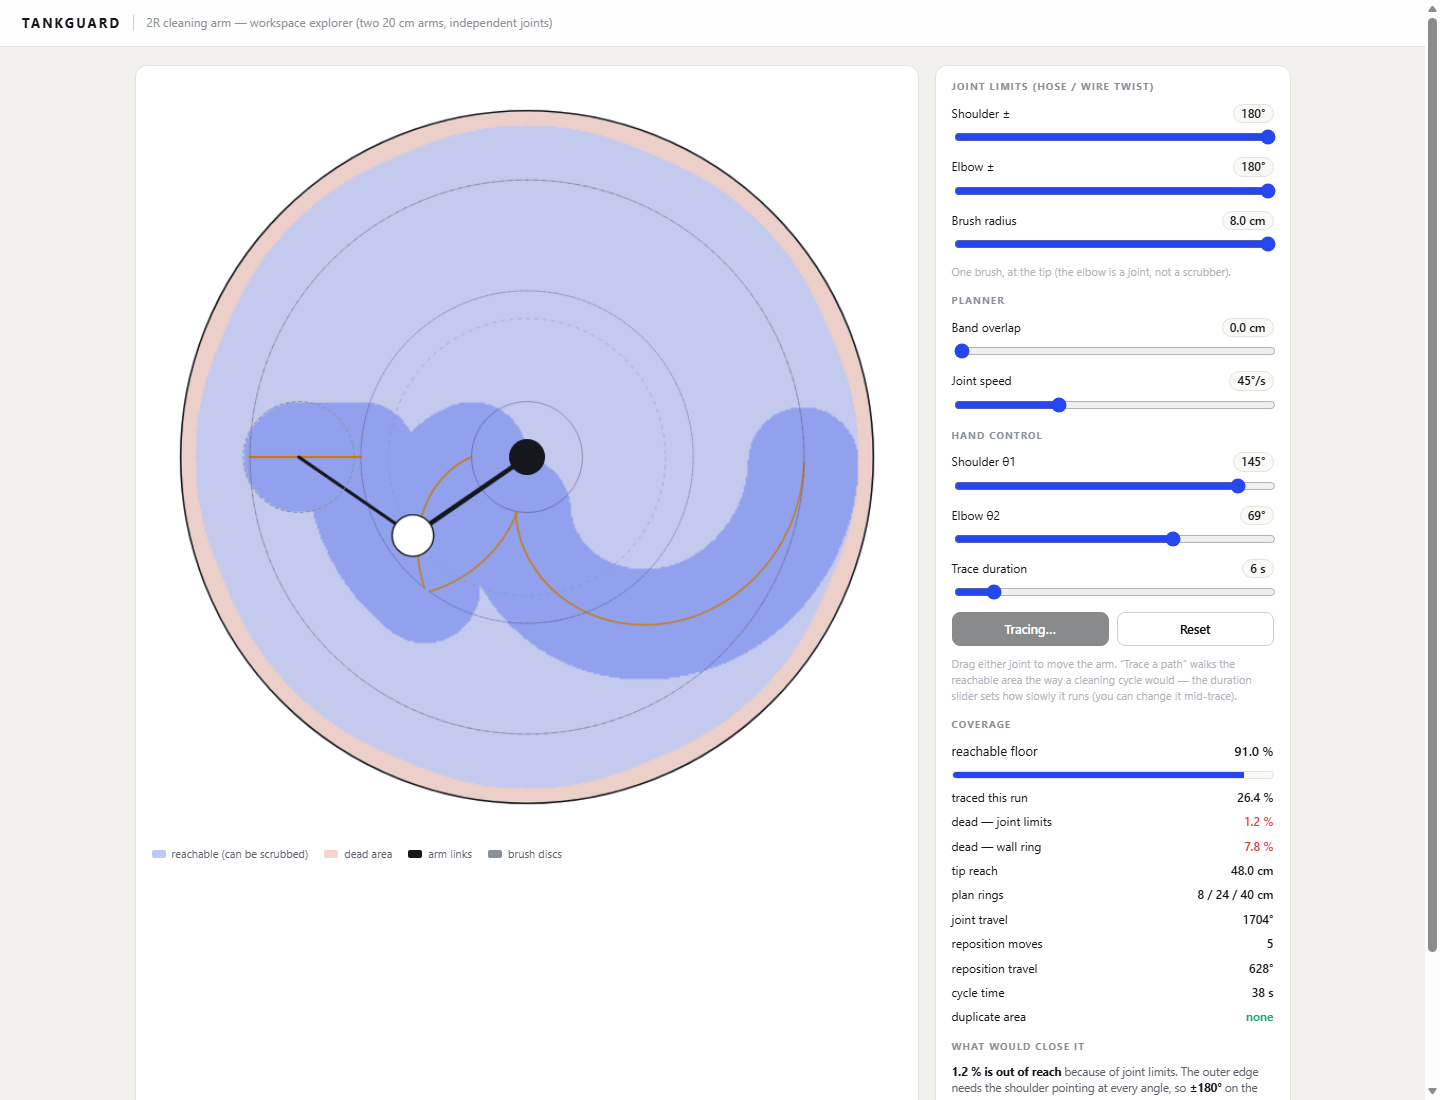
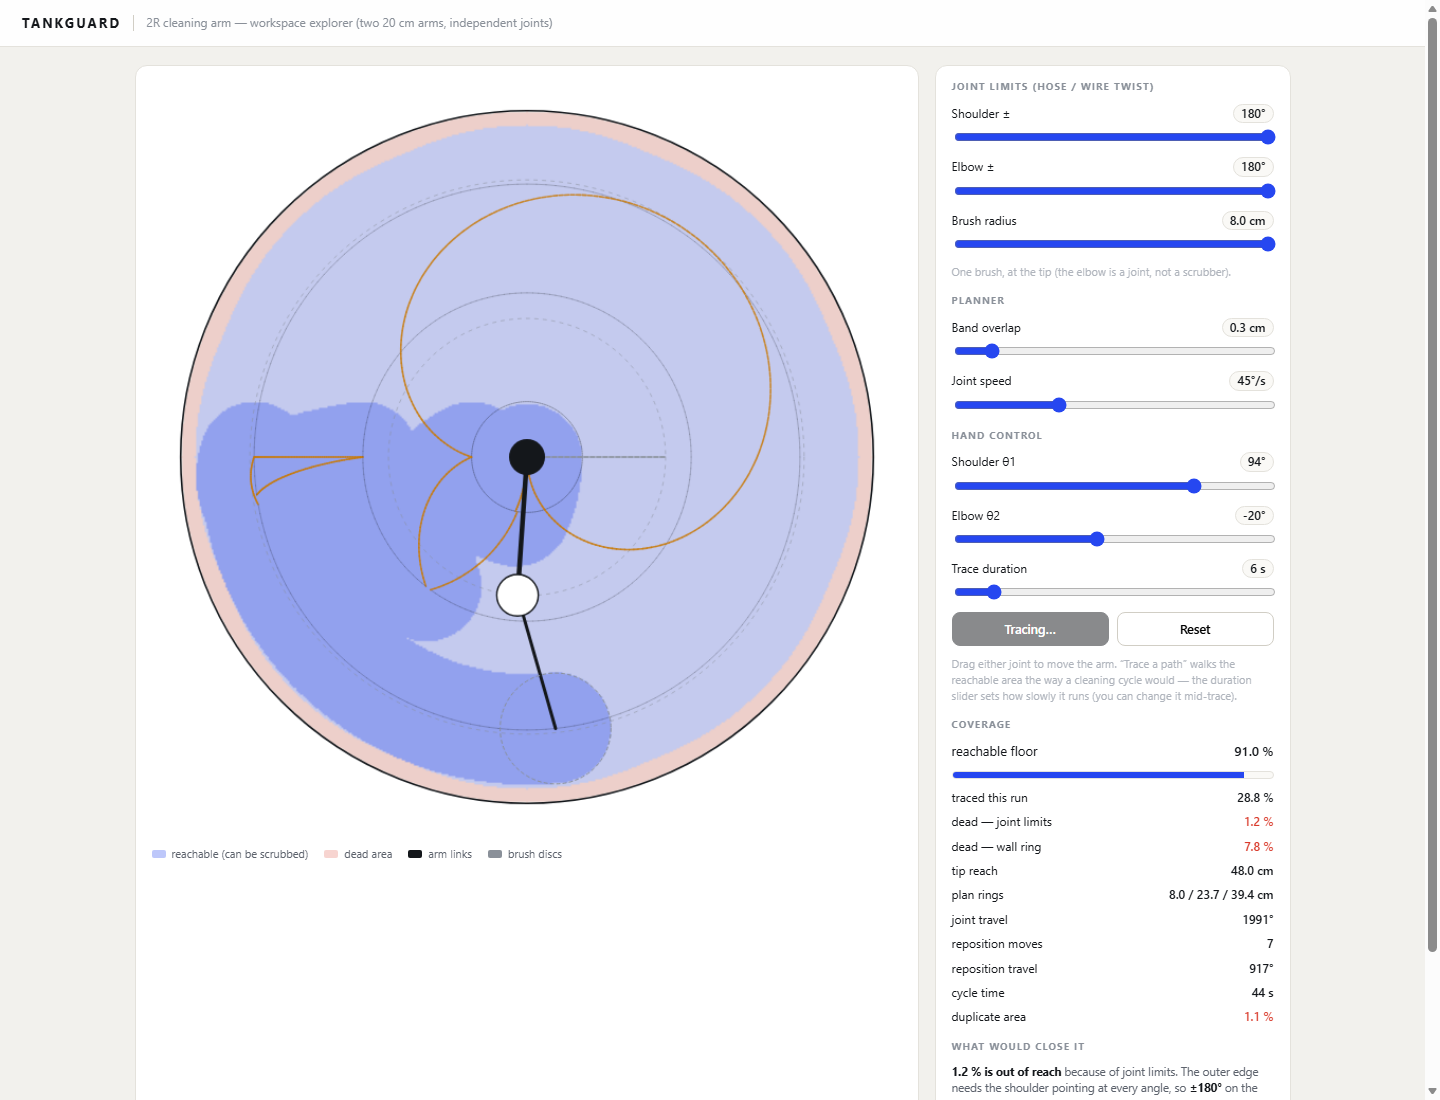
feat(tools): park pose start/end, 0.3 cm overlap ladder, cycle-priced ordering

diff --git a/tools/swept_area.html b/tools/swept_area.html
@@ -92,8 +92,8 @@
     <div class="group">
       <span class="group-title">Planner</span>
       <label class="ctl">
-        <span class="ctl-head">Band overlap <output id="o-margin">0.0 cm</output></span>
-        <input id="i-margin" type="range" min="0" max="3" step="0.25" value="0">
+        <span class="ctl-head">Band overlap <output id="o-margin">0.3 cm</output></span>
+        <input id="i-margin" type="range" min="0" max="3" step="0.1" value="0.3">
       </label>
       <label class="ctl">
         <span class="ctl-head">Joint speed <output id="o-jointspeed">45°/s</output></span>
@@ -163,7 +163,7 @@ const px = (cm) => (cm + LIM) * scale;
 const deg = (r) => (r * 180) / Math.PI;
 const rad = (d) => (d * Math.PI) / 180;
 
-const state = { l1: 180, l2: 180, brush: 8, t1: 0, t2: 0, traced: 0, running: false, traceDur: 12, margin: 0, jointSpeed: 45, planPath: [] };
+const state = { l1: 180, l2: 180, brush: 8, t1: 0, t2: 0, traced: 0, running: false, traceDur: 12, margin: 0.3, jointSpeed: 45, planPath: [] };
 
 const inTank = new Uint8Array(N * N);
 const tipOk = new Uint8Array(N * N);
@@ -321,6 +321,20 @@ function draw() {
     ctx.restore();
   }
 
+  // ghost of the rest pose, so the park position is part of the picture
+  const hp = parkPose();
+  const ha1 = rad(hp.t1), ha2 = rad(hp.t1 + hp.t2);
+  ctx.save();
+  ctx.setLineDash([2, 4]);
+  ctx.strokeStyle = "rgba(138,144,153,.8)";
+  ctx.lineWidth = 2;
+  ctx.beginPath();
+  ctx.moveTo(px(0), px(0));
+  ctx.lineTo(px(L1 * Math.cos(ha1)), px(L1 * Math.sin(ha1)));
+  ctx.lineTo(px(L1 * Math.cos(ha1) + L2 * Math.cos(ha2)), px(L1 * Math.sin(ha1) + L2 * Math.sin(ha2)));
+  ctx.stroke();
+  ctx.restore();
+
   const p = tipPosition();
   ctx.lineCap = "round"; ctx.strokeStyle = "#14171b";
   ctx.lineWidth = 4.5;
@@ -468,10 +482,14 @@ document.getElementById("reset").addEventListener("click", () => {
 -------------------------------------------------------------------------- */
 
 function planRings(b, margin) {
-  const span = L1 + L2 - b; // from the first ring to full extension
-  const n = Math.max(2, Math.ceil(span / (2 * b - margin)) + 1);
+  const step = Math.max(0.5, 2 * b - margin); // band width minus the requested overlap
   const rings = [];
-  for (let k = 0; k < n; k++) rings.push(b + (span * k) / (n - 1));
+  for (let r = b; r <= L1 + L2 + 1e-6; r += step) rings.push(r);
+  // If the ladder falls short of full extension by less than half a step, stop
+  // there: adding one more ring would stack a huge overlap on the wall band.
+  const last = rings[rings.length - 1];
+  const shortfall = L1 + L2 - last;
+  if (shortfall > 1e-6 && shortfall >= step * 0.5) rings.push(L1 + L2);
   return rings;
 }
 
@@ -579,7 +597,15 @@ function orderArcs(arcs, startPose) {
 
   const full = size - 1;
   let best = INF, bi = 0, bo = 0;
-  for (let i = 0; i < n; i++) for (let o = 0; o < 2; o++) if (dp[full][i][o] < best) { best = dp[full][i][o]; bi = i; bo = o; }
+  for (let i = 0; i < n; i++) {
+    for (let o = 0; o < 2; o++) {
+      if (!isFinite(dp[full][i][o])) continue;
+      const end = o ? arcs[i][0] : arcs[i][arcs[i].length - 1];
+      // the cycle must return to the rest pose, so price that leg in
+      const total = dp[full][i][o] + d(end, startPose);
+      if (total < best) { best = total; bi = i; bo = o; }
+    }
+  }
 
   const seq = [];
   let mask = full, i = bi, o = bo;
@@ -593,19 +619,27 @@ function orderArcs(arcs, startPose) {
   return seq.map(({ i, o }) => (o ? arcs[i].slice().reverse() : arcs[i]));
 }
 
+/* Rest pose: both links folded back on themselves, tip at the centre. That is
+   the most compact form the arm can take (occupies one 20 cm radius line), the
+   least loaded on both joints, and it never parks against the wall. */
+function parkPose() {
+  return { t1: 0, t2: Math.min(180, state.l2) };
+}
+
 function buildPlan() {
   const rings = planRings(state.brush, state.margin);
   const perRing = rings.map((r) => ringArcs(r));
   const arcs = perRing.flat();
 
-  const ordered = orderArcs(arcs, { t1: state.t1, t2: state.t2 });
+  const park = parkPose();
+  const ordered = orderArcs(arcs, park);
 
   // ---- full path: arcs plus interpolated reconfiguration moves ----------
   const path = [];
   let cleanTravel = 0;
   let moveTravel = 0;
   let moves = 0;
-  let prevPose = { t1: state.t1, t2: state.t2 };
+  let prevPose = { t1: park.t1, t2: park.t2 };
 
   const interp = (from, to) => {
     const d1 = to.t1 - from.t1;
@@ -634,6 +668,14 @@ function buildPlan() {
       path.push({ t1: p.t1, t2: p.t2, move: false });
     }
     prevPose = arc[arc.length - 1];
+  }
+
+  // return to the rest pose so every cycle starts and ends parked
+  const backGap = Math.abs(park.t1 - prevPose.t1) + Math.abs(park.t2 - prevPose.t2);
+  if (backGap > 0.5) {
+    path.push(...interp(prevPose, park));
+    moveTravel += backGap;
+    moves++;
   }
 
   const travel = cleanTravel + moveTravel;
@@ -670,6 +712,15 @@ document.getElementById("run").addEventListener("click", () => {
   if (!poses.length) return;
   publishPlan(plan);
 
+  // every cycle starts from rest
+  const home = parkPose();
+  state.t1 = home.t1;
+  state.t2 = home.t2;
+  t1El.value = String(state.t1);
+  t2El.value = String(state.t2);
+  document.getElementById("o-t1").textContent = state.t1.toFixed(0) + "°";
+  document.getElementById("o-t2").textContent = state.t2.toFixed(0) + "°";
+
   state.running = true;
   const btn = document.getElementById("run");
   btn.disabled = true; btn.textContent = "Tracing…";
@@ -680,7 +731,7 @@ document.getElementById("run").addEventListener("click", () => {
     return { x: L1 * Math.cos(a1) + L2 * Math.cos(a2), y: L1 * Math.sin(a1) + L2 * Math.sin(a2), move: !!p.move };
   });
 
-  document.getElementById("o-rings").textContent = plan.rings.map((r) => r.toFixed(0)).join(" / ") + " cm";
+  document.getElementById("o-rings").textContent = plan.rings.map((r) => r.toFixed(1)).join(" / ") + " cm";
   document.getElementById("o-travel").textContent = plan.travel.toFixed(0) + "°";
   document.getElementById("o-time").textContent = (plan.travel / state.jointSpeed).toFixed(0) + " s";
   document.getElementById("o-moves").textContent = String(plan.moves);

diff --git a/docs/CLEANER.md b/docs/CLEANER.md
@@ -252,51 +252,57 @@ it can, so the model is consistent.
 
 Screenshot: [`workspace-2r.png`](workspace-2r.png)
 
-### Coverage planner — minimal passes, zero duplication
+### Coverage planner — minimal passes, no wasted floor
 
-The brush is a disc of radius *b*, so one full circular pass at radius *r*
-scrubs the annulus **[r − b, r + b] exactly**. Tiling the reachable disc with
-concentric passes spaced **2b** therefore covers everything with **no overlap**:
-it is the minimum number of passes, and any tighter spacing re-cleans floor.
+The brush is a disc of radius *b*, so one full circular pass at radius *r* scrubs
+the annulus **[r − b, r + b] exactly**. Tiling the reachable disc with
+concentric passes spaced **2b − overlap** covers everything with only the
+overlap you ask for — the minimum number of passes, and no other duplication.
 
-With **b = 8 cm** the whole floor is three rings:
+**Final configuration: b = 8 cm, 0.3 cm band overlap, single tip brush, both
+joints ±180°, cycle starts and ends parked.**
 
 | ring | band scrubbed | note |
 |---|---|---|
-| r = 8 cm | 0 – 16 cm | tip folded (elbow ≈ ±157°) |
-| r = 24 cm | 16 – 32 cm | elbow ≈ ±106° |
-| r = 40 cm | 32 – 48 cm | fully extended (elbow 0°) |
-
-Planner output (both joints ±180°, elbow brush off):
+| r = 8.0 cm | 0 – 16 cm | tip folded (elbow ≈ ±157°) |
+| r = 23.7 cm | 15.7 – 31.7 cm | elbow ≈ ±106° |
+| r = 39.4 cm | 31.4 – 47.4 cm | nearly extended (elbow ≈ ±20°) |
 
 | metric | value |
 |---|---|
-| coverage | **91.0 %** of the floor (the rest is the 2 cm ring + 1.2 % centre) |
-| duplicate area | **0 %** |
-| arcs | 5 (inner and middle rings split once by the elbow branch flip; outer ring 1) |
-| joint travel | **1,704°** — 1,076° scrubbing + **628° repositioning** |
-| cycle time | **38 s** at 45 °/s joint speed |
+| coverage | **90.0 %** of the floor |
+| duplicate area | **1.13 %** — exactly the 0.3 cm overlap, nothing else |
+| arcs | 6 — each ring splits once at its elbow branch flip |
+| reposition moves | 7 — park → ring 1, five ring/branch transitions, ring 3 → park |
+| joint travel | **1,991°** — 1,074° scrubbing + **917° repositioning** |
+| cycle time | **44 s** at 45 °/s joint speed |
 
-Two findings the planner makes obvious:
+**Park pose.** Every cycle starts and ends in the same rest form: both links
+folded back on themselves, θ1 = 0°, θ2 = ±180°, tip at the tank centre. That is
+the most compact shape the arm can take (one 20 cm line), loads both joints the
+least, and never rests against the wall. The tool draws it as a ghost so the
+resting position is part of the picture, and the planner prices the two park legs
+into the ordering — it solves for a *cycle*, not an open path.
 
-1. **The tip brush alone closes the tiling.** Rings at 8 / 24 / 40 scrub
-   0–48 cm with no gaps and no overlap — a second brush at the elbow would
-   scrub 12–28 cm again (25.6 % of the floor twice) for nothing. One brush is
-   both simpler and faster.
-2. **Overlap margin is expensive.** A 2 cm margin pushes the plan to four rings
-   (8 / 19 / 29 / 40 cm), +6 % joint travel and **10.2 % duplicate area** — for
-   no coverage gain. Keep the margin at 0 and rely on the brush's compliance.
+**Why 0.3 cm costs 2.4 points of floor.** The rings must fit inside the 40 cm
+reach, so a tighter ladder trades wall band for overlap: at 0.3 cm the outermost
+ring sits at 39.4 and the wall ring grows from 2.0 to 2.6 cm. Forcing a fourth
+ring to hold the wall at 40 would stack 5.3 cm of overlap on every boundary and
+duplicate **20 %** of the floor. Three rings at 15.7 cm is the right call.
 
-The planner also splits each ring into arcs wherever a joint limit or an elbow
-branch flip forces a reconfiguration, orders those arcs **exactly** (Held-Karp
-over the arcs and their two directions — greedy was leaving ~200° on the table),
-and interpolates the moves between arcs so the animation shows the real
-movement instead of teleporting. Repositioning is 37 % of the cycle and is
-dominated by one unavoidable elbow flip: the inner ring needs both branches
-(±157°) to keep the shoulder inside ±180°.
+**Where the repositioning goes.** 917° is 46 % of the cycle, and almost all of it
+is three elbow flips (one per ring, ≈300° each). A ring below r = 40 cannot be
+swept by one elbow branch inside a ±180° shoulder limit — the branch must flip at
+some angle. Only a wider shoulder limit removes that, not a better algorithm.
 
-The tool draws the whole plan before running it — grey for scrubbing passes,
-dashed amber for repositioning moves — so the cycle can be read at a glance.
+The planner splits rings into arcs where a limit or branch flip forces a
+reconfiguration, orders those arcs **exactly** (Held-Karp over arcs × directions,
+priced as a cycle back to park), and interpolates every move so the animation
+shows the real motion. The whole plan is drawn before it runs — grey for
+scrubbing passes, dashed amber for repositioning.
+
+**One brush.** A second brush at the elbow would scrub 12–28 cm, which the r = 8
+and r = 23.7 passes already cover — 25.6 % of the floor twice, for nothing.
 
 ---
 
